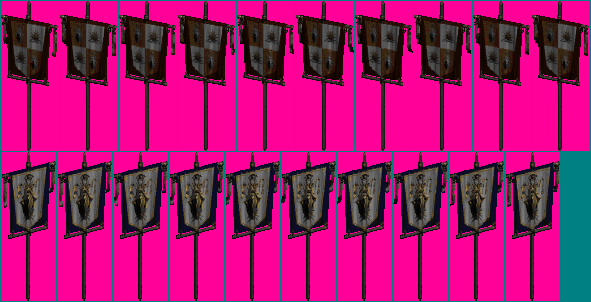
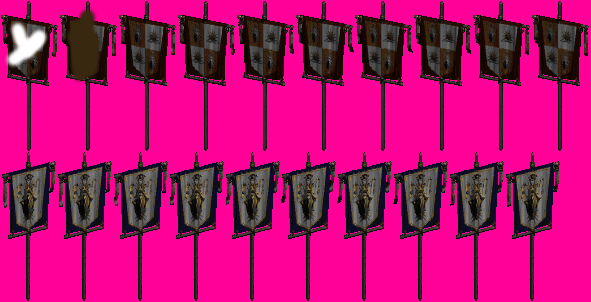
Incapaz de que aparezca la p*ta bandera

Changed region(s): [[0.0, 0.4768, 1.0, 1.0], [0.0, 0.0, 1.0, 0.2682]]

diff --git a/Clases_Nuevas/standingSprites.py b/Clases_Nuevas/standingSprites.py
@@ -1,0 +1,99 @@
+
+from gestorRecursos import *
+from mysprite import MySprite
+from resourcesManager import *
+
+
+# These are here mostly for consistence
+STILL   = 0
+LEFT    = 1
+RIGHT   = 2
+UP      = 3
+DOWN    = 4
+UPRIGHT = 5
+UPLEFT  = 6
+STUNNED = 7
+
+SWORD_SLASH_ANIM_DELAY = 2
+SWORD_MOVE_SPEED = 0.01
+
+FLAG_ANIM_DELAY = 1
+AXE_MOVE_SPEED = 0.15
+
+GRAVITY = 0.0009
+
+class StandingSprites(MySprite):
+    # StandingSprites don't move
+    def __init__(self, imageFile, coordFile, nImages, animDelay, looking):
+
+        # First we call parent's constructor
+        MySprite.__init__(self)
+
+        # Loading the spritesheet.
+        self.sheet = ResourcesManager.loadImage(imageFile, -1)
+        self.sheet = self.sheet.convert_alpha()
+        # Where is the image looking
+        self.looking = looking
+
+        # Reading the coordinates
+        data = ResourcesManager.loadFileCoordinates(coordFile)
+        data = data.split()
+        self.numStance = 1
+        self.numImageStance = 0
+        counter = 0
+        self.sheetCoords = []
+        line = 0
+        self.sheetCoords.append([])
+        tmp = self.sheetCoords[line]
+        for stance in range(1, nImages[line] + 1):
+            tmp.append(pygame.Rect((int(data[counter]), int(data[counter + 1])),
+                                   (int(data[counter + 2]), int(data[counter + 3]))))
+            counter += 4
+
+        # Delay when changing sprite image
+        self.movementDelay = 0
+        self.numStance = STILL
+        self.animationDelay = animDelay
+
+
+        self.rect = pygame.Rect(100, 100, self.sheetCoords[self.numStance][self.numImageStance][2],
+                                self.sheetCoords[self.numStance][self.numImageStance][3])
+
+
+        self.updateStance()
+
+    def updateStance(self):
+        # Every frame a counter is decreased
+        self.movementDelay -= 1
+        # If it runs out, it's time to change the sprite shown.
+        if (self.movementDelay < 0):
+            self.movementDelay = self.animationDelay
+            self.numImageStance += 1
+            # If we run out of stances, the loop is reset
+            if self.numImageStance >= len(self.sheetCoords[self.numStance]):
+                self.numImageStance = 0
+            if self.numImageStance < 0:
+                self.numImageStance = len(self.sheetCoords[self.numStance])-1
+            self.image = self.sheet.subsurface(self.sheetCoords[self.numStance][self.numImageStance])
+            if self.looking == RIGHT:
+                self.image = self.sheet.subsurface(self.sheetCoords[self.numStance][self.numImageStance])
+            elif self.looking == LEFT:
+                self.image = pygame.transform.flip(
+                    self.sheet.subsurface(self.sheetCoords[self.numStance][self.numImageStance]), 1, 0)
+
+    def update(self, time):
+        self.updateStance()
+        MySprite.update(self, time)
+
+        return
+
+class Banner(StandingSprites):
+    # The banner sprite
+    def __init__(self, position):
+        StandingSprites.__init__(self, 'banner.png', 'coordBanner.txt',
+                    [1], 0.1, LEFT)
+        self.position = position
+
+    def update(self, player, time):
+        self.scroll = player.scroll
+        StandingSprites.update(self, time)

diff --git a/Clases_Nuevas/phase.py b/Clases_Nuevas/phase.py
@@ -7,6 +7,7 @@ from scrollControl import *
 from animationsPygame import *
 from miscSprites import *
 from director import *
+from standingSprites import *
 
 # -------------------------------------------------
 # Class for pygame scenes with one player
@@ -19,7 +20,7 @@ class PhaseScene(PygameScene):
 
         # It reads the file with the level paramethers
         sceneryObj, frontImagesList, frontAnimationsList, backAnimationsList, \
-        platformList, flag, playerX, playerY, spawnPointList\
+        platformList, flagArea, realFlagXPos, playerX, playerY, spawnPointList\
             = loadLevelData(levelFile)
 
         PygameScene.__init__(self, director, sceneryObj.windowWidth, sceneryObj.windowHeight)
@@ -58,8 +59,9 @@ class PhaseScene(PygameScene):
         # TODO: implement this well
         self.flagRaised = False
         self.flagGroup = pygame.sprite.Group()
-        self.flagSpriteGroup = pygame.sprite.Group()
-        self.flagGroup.add(flag)
+        self.bannerSpriteGroup = pygame.sprite.Group()
+        self.flagGroup.add(flagArea)
+        self.realFlagXPos = realFlagXPos
         # ---------------------------------------------------
 
         # Loads the animations in the front
@@ -112,22 +114,21 @@ class PhaseScene(PygameScene):
         self.player.update(self.platformsGroup, self.projectilesGroup, time)
         # ---------------------------------------------------
         # CODE TO TRY FLAGS
-        # TODO: implement this in a good way, this does not work
         if not self.flagRaised:
             self.flagRaised = PhaseScene.checkFlag(self)
             if self.flagRaised:
                 flagList = self.flagGroup.sprites()
                 flag = flagList.pop()
-                flagSprite = FlagSprite()
-                flagSprite.setPosition((int(flag.rect.left+flag.rect.right/2), flag.rect.top))
-                self.flagSpriteGroup.add(flagSprite)
+                # We set the Banner in its position
+                bannerSprite = Banner((self.realFlagXPos,flag.rect.bottom))
+                self.bannerSpriteGroup.add(bannerSprite)
                 # This changes scene
                 #Director.leaveScene(self.director)
 
         # ---------------------------------------------------
 
-        # OJETE, esto tampoco
-        self.flagSpriteGroup.update(self.platformsGroup, self.projectilesGroup, time)
+        # Updates the banner sprite
+        self.bannerSpriteGroup.update(self.player, time)
 
         # Updates the enemies
         self.enemiesGroup.update(self.platformsGroup, self.projectilesGroup, time)
@@ -152,6 +153,8 @@ class PhaseScene(PygameScene):
             animation.draw(screen)
         # Scenery
         self.scenery.draw(screen)
+        # Flag Sprite
+        self.bannerSpriteGroup.draw(screen)
         # Sprites
         for group in self.spritesList:
             group.draw(screen)

diff --git a/Clases_Nuevas/xmlLevelParser.py b/Clases_Nuevas/xmlLevelParser.py
@@ -5,6 +5,7 @@ import os
 import xml.etree.ElementTree as ET
 from miscSprites import *
 import pygame
+BANNER_WIDTH = 58
 
 def openXmlGetTree(xmlFileName):
     # Get the directory where this file is
@@ -99,13 +100,17 @@ def loadLevelData(level):
 
         platformList.append(Platform(pygame.Rect(left,top,width,height)))
 
-    # Flag
-    flag = root.find("flag")
-    left = int(flag.find("left").text) - winImageX
-    top = int(flag.find("top").text) - winImageY
-    width = int(flag.find("width").text)
-    height = int(flag.find("height").text)
-    flag = FlagArea(pygame.Rect(left, top, width, height))
+    # Flag area of influence
+    flagArea = root.find("flag")
+    left = int(flagArea.find("left").text) - winImageX
+    top = int(flagArea.find("top").text) - winImageY
+    width = int(flagArea.find("width").text)
+    height = int(flagArea.find("height").text)
+
+    # Position where the Banner will spawn within the flag area of influence
+    realFlagXPos = (int(flagArea.find("left").text) - BANNER_WIDTH / 2 + int(flagArea.find("width").text) / 2)
+
+    flagArea = FlagArea(pygame.Rect(left, top, width, height))
 
 
     # Images on the front
@@ -198,7 +203,7 @@ def loadLevelData(level):
             spawnPointList.append(spawnPointClass(id, enemyList, x, y))
 
     return sceneryObj, frontImagesList, frontAnimationsList, backAnimationsList,\
-           platformList, flag, playerX, playerY, spawnPointList
+           platformList, flagArea, realFlagXPos, playerX, playerY, spawnPointList
 
 class enemyInSpawnPoint:
     def __init__(self, id, spawnFrecuency):

diff --git a/Clases_Nuevas/characters.py b/Clases_Nuevas/characters.py
@@ -436,12 +436,6 @@ class AxeKnight(NPC):
             self.attackTime -= time
         Character.update(self, platformGroup, projectileGroup, time)
 
-class FlagSprite(Character):
-    # The flag sprite
-    def __init__(self):
-        Character.__init__(self, 'banner.png', 'coordBanner.txt',
-                    [1, 1, 1], 0, 0, 0.1)
-
 class MeltyZombie(NPC):
     def __init__(self):
         NPC.__init__(self, 'MeltyZombie.png', 'coordMeltyZombie.txt', [4, 8, 1],
